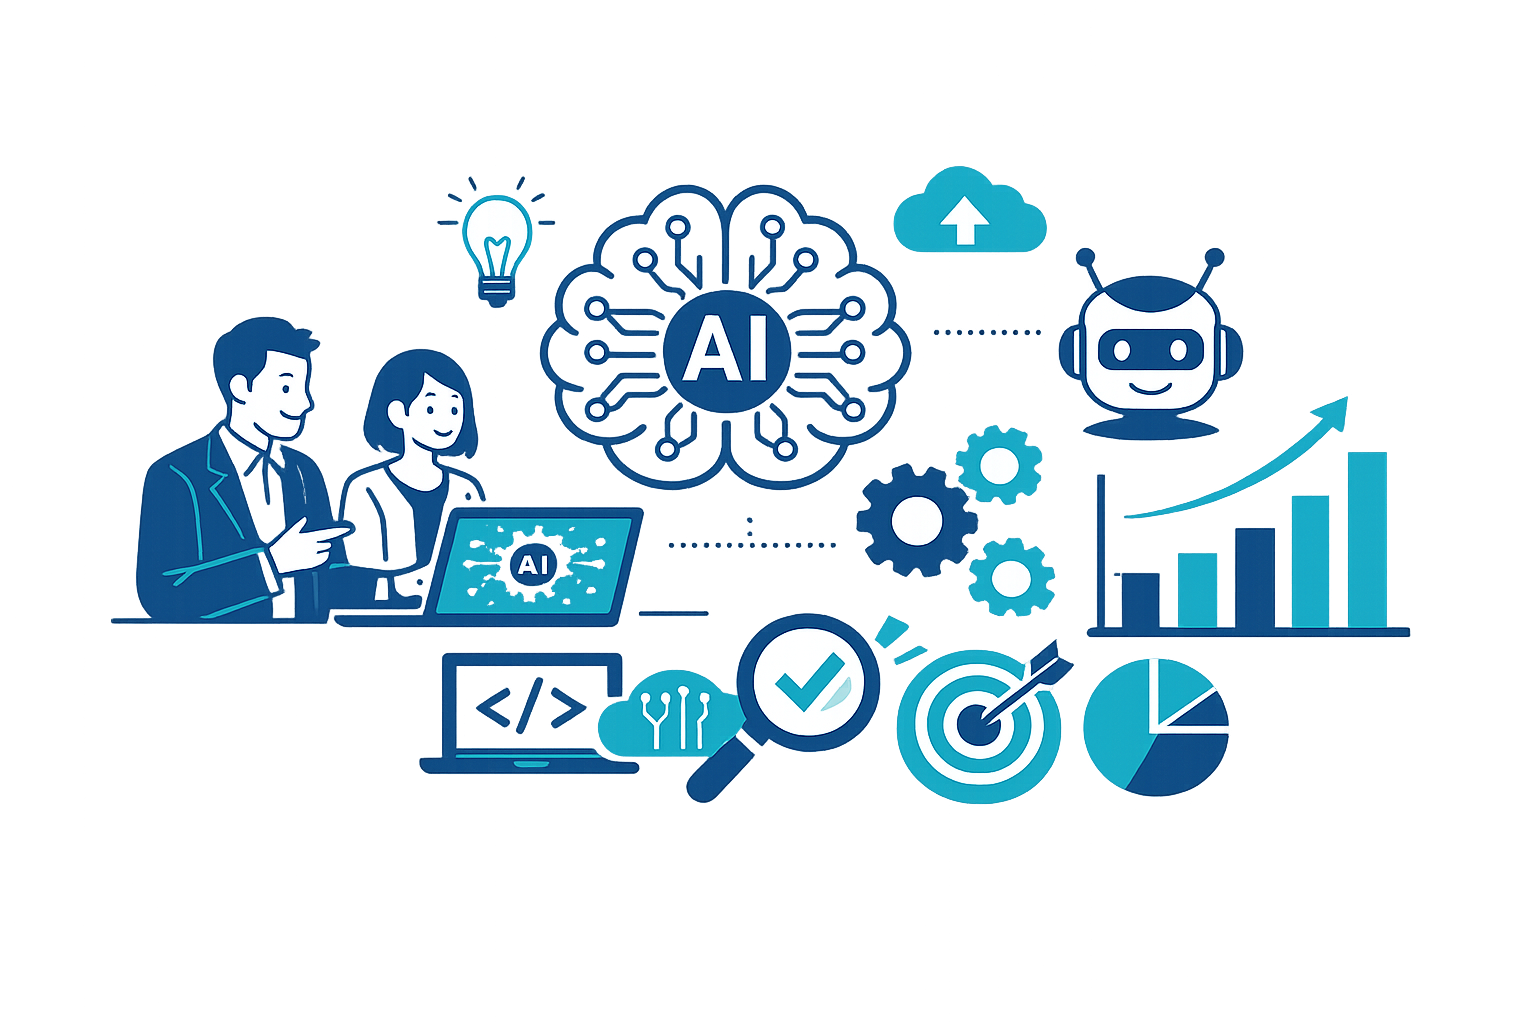
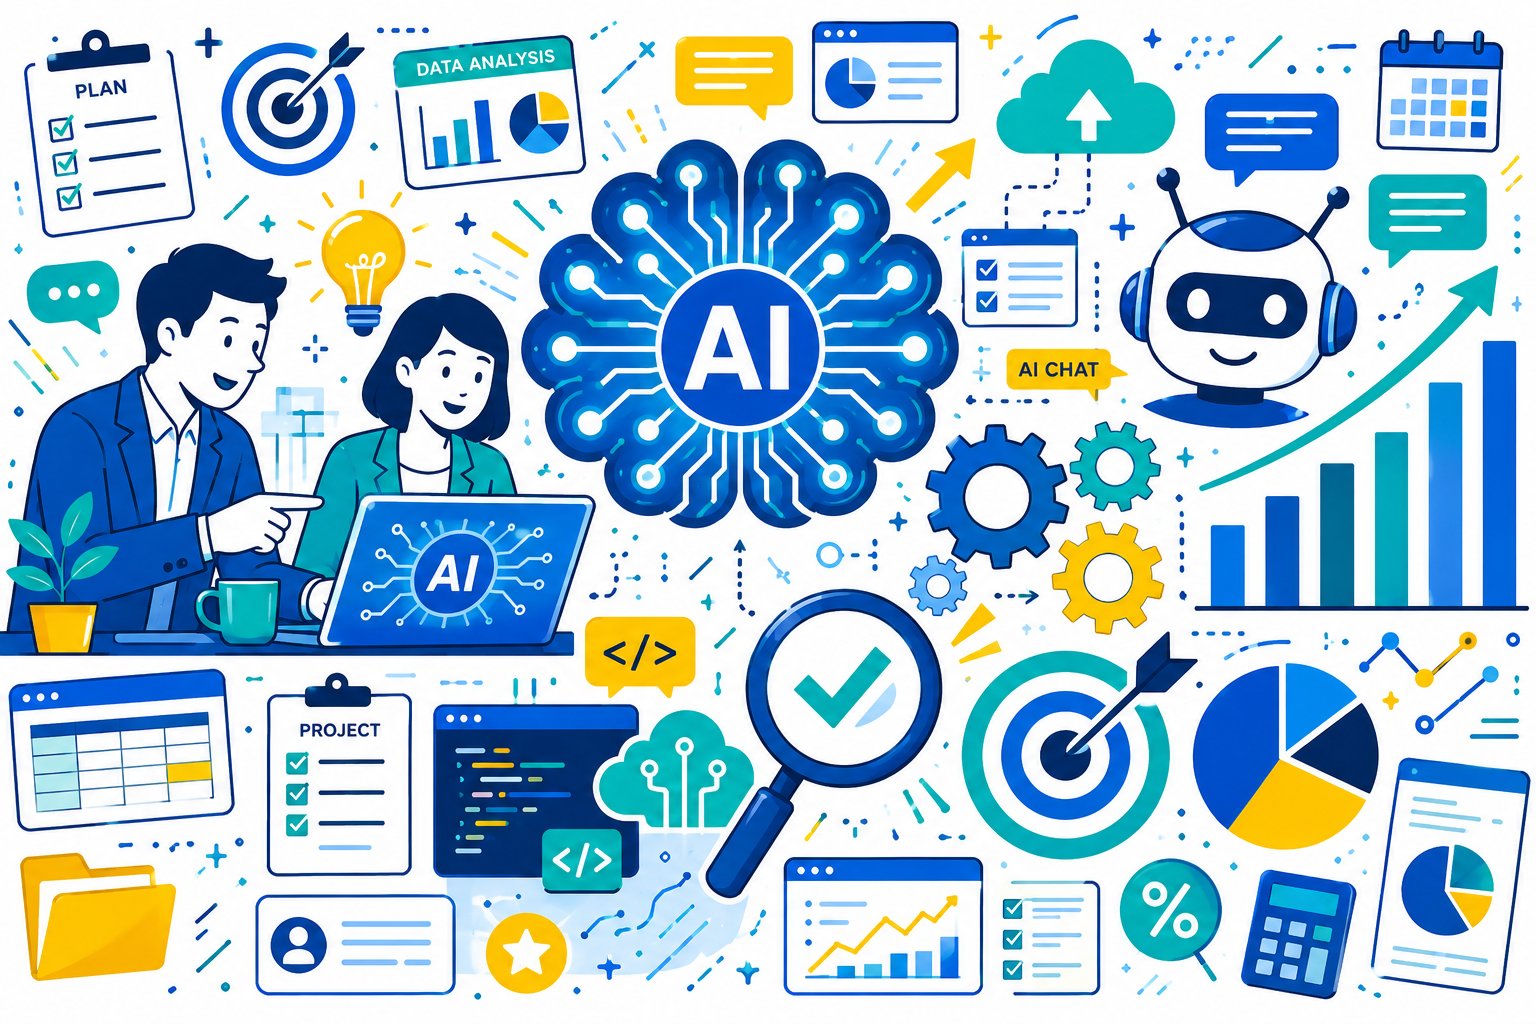
fix: ロゴテキスト修正・フォント元に戻す・FVイラスト反映
- ロゴ前置テキスト: 「中小企業向けAI活用支援」→「生成AI活用支援の」
- ロゴフォント: 元のスタイル（1.25rem/700/var(--teal)）に戻す
- assets/fv-illustration.png: 新イラスト（白背景カラフル版）をコミット

diff --git a/index.html b/index.html
@@ -390,7 +390,7 @@ img,svg{display:block;max-width:100%}
 <!-- ================= HEADER ================= -->
 <header class="site-header">
   <div class="site-header__inner">
-    <a href="./index.html" class="site-logo" aria-label="ざつね屋 トップページ"><span class="site-logo__pre">中小企業向けAI活用支援</span><span class="site-logo__name">ざつね屋</span></a>
+    <a href="./index.html" class="site-logo" aria-label="ざつね屋 トップページ"><span class="site-logo__pre">生成AI活用支援の</span><span class="site-logo__name">ざつね屋</span></a>
     <nav class="site-nav" id="site-nav" aria-label="グローバルナビゲーション">
       <ul class="site-nav__list">
         <li class="site-nav__item"><a href="./services.html" class="site-nav__link">サービス</a></li>

diff --git a/profile.html b/profile.html
@@ -156,7 +156,7 @@ img,svg{display:block;max-width:100%}
 
 <header class="site-header">
   <div class="site-header__inner">
-    <a href="./index.html" class="site-logo" aria-label="ざつね屋 トップページ"><span class="site-logo__pre">中小企業向けAI活用支援</span><span class="site-logo__name">ざつね屋</span></a>
+    <a href="./index.html" class="site-logo" aria-label="ざつね屋 トップページ"><span class="site-logo__pre">生成AI活用支援の</span><span class="site-logo__name">ざつね屋</span></a>
     <nav class="site-nav" id="site-nav" aria-label="グローバルナビゲーション">
       <ul class="site-nav__list">
         <li class="site-nav__item"><a href="./services.html" class="site-nav__link">サービス</a></li>

diff --git a/services.html b/services.html
@@ -193,7 +193,7 @@ img,svg{display:block;max-width:100%}
 
 <header class="site-header">
   <div class="site-header__inner">
-    <a href="./index.html" class="site-logo" aria-label="ざつね屋 トップページ"><span class="site-logo__pre">中小企業向けAI活用支援</span><span class="site-logo__name">ざつね屋</span></a>
+    <a href="./index.html" class="site-logo" aria-label="ざつね屋 トップページ"><span class="site-logo__pre">生成AI活用支援の</span><span class="site-logo__name">ざつね屋</span></a>
     <nav class="site-nav" id="site-nav" aria-label="グローバルナビゲーション">
       <ul class="site-nav__list">
         <li class="site-nav__item"><a href="./services.html" class="site-nav__link">サービス</a></li>

diff --git a/tokusho.html b/tokusho.html
@@ -125,7 +125,7 @@
 
 <header class="site-header">
   <div class="site-header__inner">
-    <a href="./index.html" class="site-logo" aria-label="ざつね屋 トップページ"><span class="site-logo__pre">中小企業向けAI活用支援</span><span class="site-logo__name">ざつね屋</span></a>
+    <a href="./index.html" class="site-logo" aria-label="ざつね屋 トップページ"><span class="site-logo__pre">生成AI活用支援の</span><span class="site-logo__name">ざつね屋</span></a>
     <nav class="site-nav" id="site-nav" aria-label="グローバルナビゲーション">
       <ul class="site-nav__list">
         <li class="site-nav__item"><a href="./services.html" class="site-nav__link">サービス</a></li>

diff --git a/faq.html b/faq.html
@@ -17,7 +17,7 @@
 
 <header class="site-header">
   <div class="site-header__inner">
-    <a href="./index.html" class="site-logo" aria-label="ざつね屋 トップページ"><span class="site-logo__pre">中小企業向けAI活用支援</span><span class="site-logo__name">ざつね屋</span></a>
+    <a href="./index.html" class="site-logo" aria-label="ざつね屋 トップページ"><span class="site-logo__pre">生成AI活用支援の</span><span class="site-logo__name">ざつね屋</span></a>
     <nav class="site-nav" id="site-nav" aria-label="グローバルナビゲーション">
       <ul class="site-nav__list">
         <li class="site-nav__item"><a href="./services.html" class="site-nav__link">サービス</a></li>

diff --git a/thank-you.html b/thank-you.html
@@ -17,7 +17,7 @@
 
 <header class="site-header">
   <div class="site-header__inner">
-    <a href="./index.html" class="site-logo" aria-label="ざつね屋 トップページ"><span class="site-logo__pre">中小企業向けAI活用支援</span><span class="site-logo__name">ざつね屋</span></a>
+    <a href="./index.html" class="site-logo" aria-label="ざつね屋 トップページ"><span class="site-logo__pre">生成AI活用支援の</span><span class="site-logo__name">ざつね屋</span></a>
     <nav class="site-nav" id="site-nav" aria-label="グローバルナビゲーション">
       <ul class="site-nav__list">
         <li class="site-nav__item"><a href="./services.html" class="site-nav__link">サービス</a></li>

diff --git a/works.html b/works.html
@@ -17,7 +17,7 @@
 
 <header class="site-header">
   <div class="site-header__inner">
-    <a href="./index.html" class="site-logo" aria-label="ざつね屋 トップページ"><span class="site-logo__pre">中小企業向けAI活用支援</span><span class="site-logo__name">ざつね屋</span></a>
+    <a href="./index.html" class="site-logo" aria-label="ざつね屋 トップページ"><span class="site-logo__pre">生成AI活用支援の</span><span class="site-logo__name">ざつね屋</span></a>
     <nav class="site-nav" id="site-nav" aria-label="グローバルナビゲーション">
       <ul class="site-nav__list">
         <li class="site-nav__item"><a href="./services.html" class="site-nav__link">サービス</a></li>

diff --git a/style.css b/style.css
@@ -439,19 +439,17 @@ td:first-child { font-weight: 700; color: var(--heading); white-space: nowrap; }
 }
 
 .site-logo__pre {
-  font-size: 10px;
-  font-weight: 500;
+  font-size: 0.65em;
+  font-weight: 400;
   color: var(--sub-text);
-  letter-spacing: 0.06em;
-  font-family: 'Noto Sans JP', sans-serif;
+  letter-spacing: 0.03em;
 }
 
 .site-logo__name {
-  font-size: 22px;
-  font-weight: 900;
-  color: var(--teal-text);
-  letter-spacing: 0.04em;
-  font-family: 'Noto Sans JP', sans-serif;
+  font-size: 1.25rem;
+  font-weight: 700;
+  color: var(--teal);
+  letter-spacing: 0.02em;
 }
 
 .site-nav {
